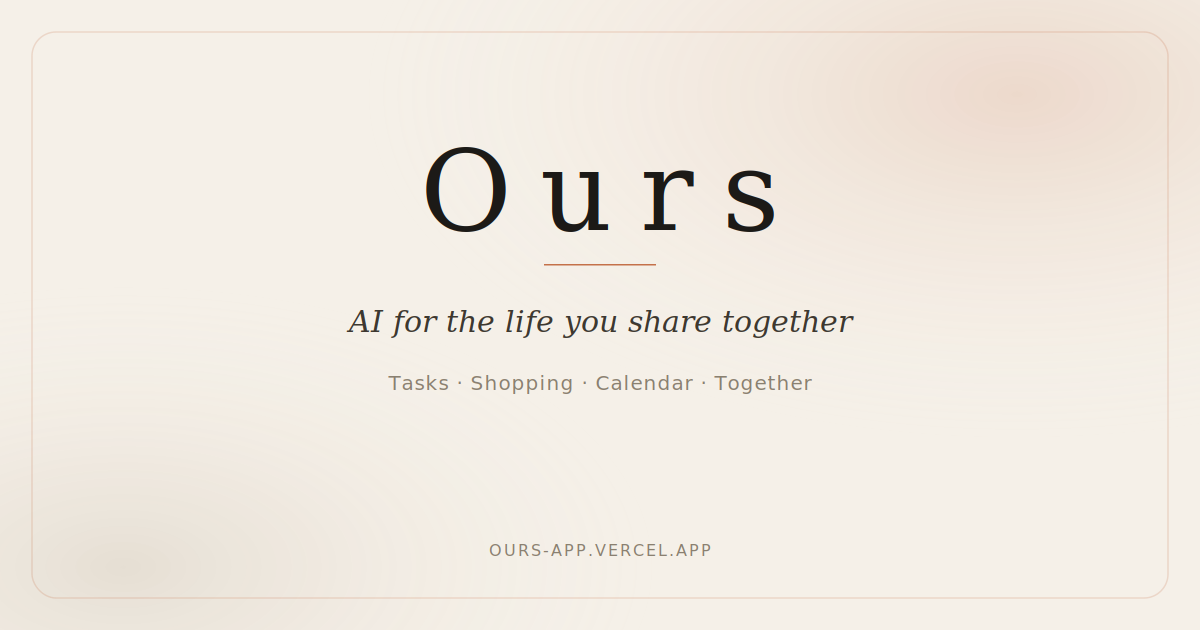
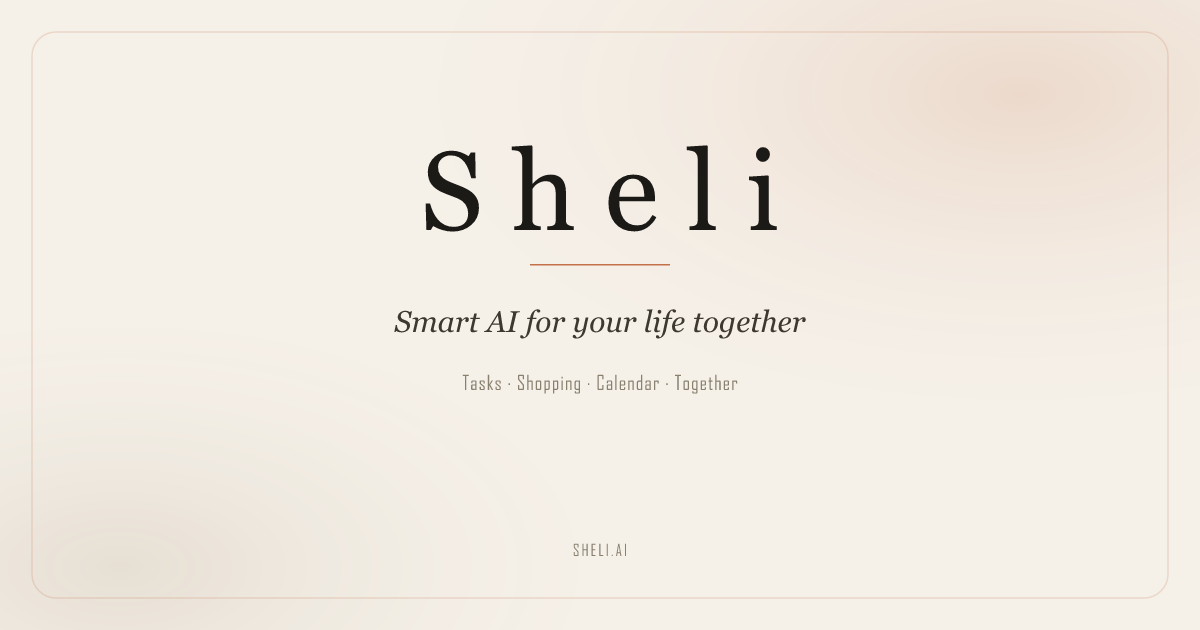
Rebrand: Ours → Sheli (שלי)
- App name, tagline, meta tags, OG/Twitter cards → Sheli branding
- PWA icons: new "S" + "SHELI" wordmark (192px + 512px)
- OG image: updated wordmark, tagline, URL (sheli.ai)
- All UI text: wordmarks, placeholders, empty states, chat labels
- AI system prompt: "You are Sheli (שלי)"
- Hebrew locale: natural Hebrew phrasing ("תגידו לשלי")
- Domain URLs: ours-app-eta.vercel.app → sheli.ai

diff --git a/src/components/WelcomeScreen.jsx b/src/components/WelcomeScreen.jsx
@@ -16,24 +16,24 @@ export default function WelcomeScreen({ onGetStarted, onSignIn }) {
   // Mock WhatsApp conversation — styled like actual WhatsApp
   const mockChat = isHe ? [
     { sender: "אמא", text: "מישהו יכול לאסוף את נועה מבלט ב-5?", side: "other", time: "09:12" },
-    { sender: "Ours 🏠", text: "📅 הוספתי: לאסוף את נועה מבלט ב-17:00\nמי לוקח?", side: "bot", time: "09:12" },
+    { sender: "Sheli 🏠", text: "📅 הוספתי: לאסוף את נועה מבלט ב-17:00\nמי לוקח?", side: "bot", time: "09:12" },
     { sender: "אבא", text: "אני. תזכירו לי לקנות חלב", side: "me", time: "09:14" },
-    { sender: "Ours 🏠", text: "✅ האיסוף → אבא\n🛒 חלב נוסף לרשימה\n⏰ תזכורת ב-16:45", side: "bot", time: "09:14" },
+    { sender: "Sheli 🏠", text: "✅ האיסוף → אבא\n🛒 חלב נוסף לרשימה\n⏰ תזכורת ב-16:45", side: "bot", time: "09:14" },
   ] : [
     { sender: "Mom", text: "Can someone pick up Noa from ballet at 5?", side: "other", time: "9:12 AM" },
-    { sender: "Ours 🏠", text: "📅 Added: Pick up Noa from ballet at 5pm\nWho's taking this?", side: "bot", time: "9:12 AM" },
+    { sender: "Sheli 🏠", text: "📅 Added: Pick up Noa from ballet at 5pm\nWho's taking this?", side: "bot", time: "9:12 AM" },
     { sender: "Dad", text: "Me. Remind me to buy milk on the way", side: "me", time: "9:14 AM" },
-    { sender: "Ours 🏠", text: "✅ Pickup → Dad\n🛒 Milk added to list\n⏰ Reminder at 4:45pm", side: "bot", time: "9:14 AM" },
+    { sender: "Sheli 🏠", text: "✅ Pickup → Dad\n🛒 Milk added to list\n⏰ Reminder at 4:45pm", side: "bot", time: "9:14 AM" },
   ];
 
   const features = isHe ? [
-    { icon: <ShoppingFeatureIcon size={28} />, title: "רשימת קניות חכמה", sub: "אמרו 'חלב' בקבוצה — Ours מוסיף לרשימה בשנייה" },
+    { icon: <ShoppingFeatureIcon size={28} />, title: "רשימת קניות חכמה", sub: "אמרו 'חלב' בקבוצה — Sheli מוסיף לרשימה בשנייה" },
     { icon: <CalendarFeatureIcon size={28} />, title: "יומן משפחתי", sub: "חוגים, הסעות, אירועים — מסודרים מעצמם" },
-    { icon: <ChoresFeatureIcon size={28} />, title: "חלוקת מטלות", sub: "Ours זוכר מי צריך לעשות מה ומתי" },
+    { icon: <ChoresFeatureIcon size={28} />, title: "חלוקת מטלות", sub: "Sheli זוכרת מי צריך לעשות מה ומתי" },
   ] : [
     { icon: <ShoppingFeatureIcon size={28} />, title: "Smart shopping list", sub: "Say 'milk' in the group — it's on the list instantly" },
     { icon: <CalendarFeatureIcon size={28} />, title: "Family calendar", sub: "Classes, pickups, events — organized by themselves" },
-    { icon: <ChoresFeatureIcon size={28} />, title: "Task sharing", sub: "Ours remembers who needs to do what, and when" },
+    { icon: <ChoresFeatureIcon size={28} />, title: "Task sharing", sub: "Sheli remembers who needs to do what, and when" },
   ];
 
   const selectLang = (l) => {
@@ -61,7 +61,7 @@ export default function WelcomeScreen({ onGetStarted, onSignIn }) {
           letterSpacing: "0.22em",
           color: "var(--dark)",
           marginBottom: 8,
-        }}>Ours</div>
+        }}>Sheli</div>
         <p style={{
           fontSize: 14,
           color: "var(--muted)",
@@ -143,7 +143,7 @@ export default function WelcomeScreen({ onGetStarted, onSignIn }) {
           letterSpacing: "0.22em",
           color: "var(--dark)",
           marginBottom: 4,
-        }}>Ours</div>
+        }}>Sheli</div>
 
         <p style={{
           fontSize: 14,
@@ -188,7 +188,7 @@ export default function WelcomeScreen({ onGetStarted, onSignIn }) {
                 {isHe ? "קבוצת המשפחה" : "Family Group"}
               </div>
               <div style={{ fontSize: 11, color: waTextMuted }}>
-                {isHe ? "אמא, אבא, Ours 🏠, את/ה" : "Mom, Dad, Ours 🏠, You"}
+                {isHe ? "אמא, אבא, Sheli 🏠, את/ה" : "Mom, Dad, Sheli 🏠, You"}
               </div>
             </div>
           </div>

diff --git a/src/App.jsx b/src/App.jsx
@@ -18,7 +18,7 @@ import { detectHousehold, joinByCode } from "./lib/household-detect.js";
 // ─────────────────────────────────────────────────────────────────────────────
 // MAIN APP
 // ─────────────────────────────────────────────────────────────────────────────
-export default function Ours() {
+export default function Sheli() {
   const [screen, setScreen]       = useState("loading");
   const [tab, setTab]             = useState("chat");
   const [household, setHousehold] = useState(null);
@@ -491,7 +491,7 @@ export default function Ours() {
   // ── Screens ──
   if (screen === "loading") return (
     <div style={{height:"100dvh",display:"flex",flexDirection:"column",alignItems:"center",justifyContent:"center",background:"var(--cream)",gap:8}}>
-      <div style={{fontFamily:"'Cormorant Garamond',serif",fontWeight:300,fontSize:28,letterSpacing:"0.22em",color:"var(--dark)",opacity:0.6}}>Ours</div>
+      <div style={{fontFamily:"'Cormorant Garamond',serif",fontWeight:300,fontSize:28,letterSpacing:"0.22em",color:"var(--dark)",opacity:0.6}}>Sheli</div>
       <div style={{fontSize:13,color:"var(--muted)",fontWeight:300}}>
         {T.en.loading}
       </div>
@@ -545,7 +545,7 @@ export default function Ours() {
     const pickFont = pickDir === "rtl" ? "'Heebo',sans-serif" : "'DM Sans',sans-serif";
     return (
       <div style={{minHeight:"100dvh",background:"var(--cream)",display:"flex",flexDirection:"column",alignItems:"center",justifyContent:"center",padding:"40px 24px",fontFamily:pickFont}} dir={pickDir}>
-        <div style={{fontFamily:"'Cormorant Garamond',serif",fontWeight:300,fontSize:36,letterSpacing:"0.22em",color:"var(--dark)",marginBottom:6}}>Ours</div>
+        <div style={{fontFamily:"'Cormorant Garamond',serif",fontWeight:300,fontSize:36,letterSpacing:"0.22em",color:"var(--dark)",marginBottom:6}}>Sheli</div>
         <p style={{fontSize:15,color:"var(--dark)",fontWeight:400,marginBottom:4,textAlign:"center"}}>
           {pickDir === "rtl"
             ? `ברוכים הבאים, ${household.name}`
@@ -695,7 +695,7 @@ export default function Ours() {
             </button>
           </div>
           <div className="header-mid">
-            <div className="wordmark">Ours</div>
+            <div className="wordmark">Sheli</div>
           </div>
           <div className="header-side right">
             <div style={{fontSize:13,fontWeight:500,color:"var(--warm)",paddingInlineEnd:4}}>{user.name}</div>
@@ -727,14 +727,14 @@ export default function Ours() {
                 ) : (
                   msgs.map((m, i) => (
                     <div key={i} className={`msg-wrap ${m.role}`}>
-                      <div className="msg-label">{m.role==="user" ? userName : t.oursLabel}</div>
+                      <div className="msg-label">{m.role==="user" ? userName : t.sheliLabel}</div>
                       <div className="bubble">{m.content}</div>
                     </div>
                   ))
                 )}
                 {busy && (
                   <div className="msg-wrap thinking-wrap">
-                    <div className="msg-label">{t.oursLabel}</div>
+                    <div className="msg-label">{t.sheliLabel}</div>
                     <div className="dots"><span/><span/><span/></div>
                   </div>
                 )}

diff --git a/src/locales/he.js b/src/locales/he.js
@@ -34,13 +34,13 @@ const he = {
   s2: "\u05EA\u05D5\u05E1\u05D9\u05E4\u05D5 \u05D7\u05DC\u05D1, \u05D1\u05D9\u05E6\u05D9\u05DD \u05D5\u05DC\u05D7\u05DD \u05DC\u05E8\u05E9\u05D9\u05DE\u05D4",
   s3: (n) => `\u05EA\u05D5\u05E1\u05D9\u05E4\u05D5 '\u05DC\u05E9\u05D0\u05D5\u05D1 \u05D0\u05D1\u05E7 \u05D1\u05E1\u05DC\u05D5\u05DF' \u05D1\u05E9\u05D1\u05D9\u05DC ${n}`,
   s4: "\u05DE\u05D4 \u05D9\u05E9 \u05D1\u05DC\u05D5\u05D6 \u05D4\u05E9\u05D1\u05D5\u05E2?",
-  inputPlaceholder: (n) => `\u05D4\u05D5\u05D3\u05E2\u05D4 \u05DC-Ours \u05D1\u05EA\u05D5\u05E8 ${n}\u2026`,
-  oursLabel: "Ours",
+  inputPlaceholder: (n) => `\u05EA\u05D2\u05D9\u05D3\u05D5 \u05DC\u05E9\u05DC\u05D9 \u05D1\u05EA\u05D5\u05E8 ${n}\u2026`,
+  sheliLabel: "שלי",
   tasksTitle: "\u05DE\u05D8\u05DC\u05D5\u05EA \u05D5\u05DE\u05E9\u05D9\u05DE\u05D5\u05EA",
   clearDone: "\u05E0\u05E7\u05D5 \u05E9\u05D1\u05D5\u05E6\u05E2\u05D5",
   sectionTodo: (n) => `\u05DC\u05D1\u05D9\u05E6\u05D5\u05E2 \u00B7 ${n}`,
   sectionDone: (n) => `\u05D1\u05D5\u05E6\u05E2 \u00B7 ${n}`,
-  tasksEmpty: "\u05D0\u05D9\u05DF \u05E2\u05D3\u05D9\u05D9\u05DF \u05DE\u05E9\u05D9\u05DE\u05D5\u05EA. \u05EA\u05D2\u05D9\u05D3\u05D5 \u05DC-Ours \u05DE\u05D4 \u05E6\u05E8\u05D9\u05DA \u05DC\u05E2\u05E9\u05D5\u05EA.",
+  tasksEmpty: "\u05D0\u05D9\u05DF \u05E2\u05D3\u05D9\u05D9\u05DF \u05DE\u05E9\u05D9\u05DE\u05D5\u05EA. \u05EA\u05D2\u05D9\u05D3\u05D5 \u05DC\u05E9\u05DC\u05D9 \u05DE\u05D4 \u05E6\u05E8\u05D9\u05DA \u05DC\u05E2\u05E9\u05D5\u05EA.",
   allDone: "\u05D4\u05DB\u05DC \u05D1\u05D5\u05E6\u05E2 \u05DC\u05E2\u05DB\u05E9\u05D9\u05D5 \u2713",
   takeIt: "\u05D0\u05E0\u05D9 \u05DC\u05D5\u05E7\u05D7/\u05EA",
   doneBy: (n) => `\u05D1\u05D5\u05E6\u05E2 \u05E2\u05DC \u05D9\u05D3\u05D9 ${n}`,
@@ -48,7 +48,7 @@ const he = {
   shopTitle: "\u05E8\u05E9\u05D9\u05DE\u05EA \u05E7\u05E0\u05D9\u05D5\u05EA",
   clearCart: "\u05E0\u05E7\u05D5 \u05E2\u05D2\u05DC\u05D4",
   inCart: (n) => `\u05D1\u05E2\u05D2\u05DC\u05D4 \u00B7 ${n}`,
-  shopEmpty: "\u05D4\u05E8\u05E9\u05D9\u05DE\u05D4 \u05E8\u05D9\u05E7\u05D4. \u05EA\u05D2\u05D9\u05D3\u05D5 \u05DC-Ours \u05DE\u05D4 \u05E6\u05E8\u05D9\u05DA.",
+  shopEmpty: "\u05D4\u05E8\u05E9\u05D9\u05DE\u05D4 \u05E8\u05D9\u05E7\u05D4. \u05EA\u05D2\u05D9\u05D3\u05D5 \u05DC\u05E9\u05DC\u05D9 \u05DE\u05D4 \u05E6\u05E8\u05D9\u05DA.",
   allInCart: "\u05D4\u05DB\u05DC \u05D1\u05E2\u05D2\u05DC\u05D4 \u2713",
   qtyLabel: (q) => `\u05DB\u05DE\u05D5\u05EA: ${q}`,
   cats: ["\u05E4\u05D9\u05E8\u05D5\u05EA \u05D5\u05D9\u05E8\u05E7\u05D5\u05EA","\u05D7\u05DC\u05D1 \u05D5\u05D1\u05D9\u05E6\u05D9\u05DD","\u05D1\u05E9\u05E8 \u05D5\u05D3\u05D2\u05D9\u05DD","\u05DE\u05D0\u05E4\u05D9\u05DD","\u05DE\u05D6\u05D5\u05D5\u05D4","\u05DE\u05D5\u05E6\u05E8\u05D9\u05DD \u05E7\u05E4\u05D5\u05D0\u05D9\u05DD","\u05DE\u05E9\u05E7\u05D0\u05D5\u05EA","\u05E0\u05D9\u05E7\u05D5\u05D9 \u05D5\u05D1\u05D9\u05EA","\u05DE\u05D5\u05E6\u05E8\u05D9\u05DD \u05DE\u05D7\u05E0\u05D5\u05EA \u05D4\u05D8\u05D1\u05E2","\u05D0\u05D7\u05E8"],

diff --git a/index.html b/index.html
@@ -7,29 +7,29 @@
     <meta name="theme-color" content="#1C1A17" />
     <meta name="apple-mobile-web-app-capable" content="yes" />
     <meta name="apple-mobile-web-app-status-bar-style" content="black-translucent" />
-    <meta name="apple-mobile-web-app-title" content="Ours" />
+    <meta name="apple-mobile-web-app-title" content="Sheli" />
     <link rel="apple-touch-icon" href="/icons/icon-192.png" />
     <link rel="manifest" href="/manifest.json" />
 
-    <title>Ours — AI for the life you share together</title>
+    <title>Sheli — Smart AI for your life together</title>
     <meta name="description" content="מטלות, קניות, חוגים, הסעות ואירועים משפחתיים — הכל במקום אחד." />
 
     <!-- Open Graph -->
     <meta property="og:type" content="website" />
-    <meta property="og:site_name" content="Ours" />
-    <meta property="og:title" content="Ours — AI for the life you share together" />
+    <meta property="og:site_name" content="Sheli" />
+    <meta property="og:title" content="Sheli — Smart AI for your life together" />
     <meta property="og:description" content="מטלות, קניות, חוגים, הסעות ואירועים משפחתיים — הכל במקום אחד." />
-    <meta property="og:image" content="https://ours-app-eta.vercel.app/og-image.png" />
+    <meta property="og:image" content="https://sheli.ai/og-image.png" />
     <meta property="og:image:width" content="1200" />
     <meta property="og:image:height" content="630" />
     <meta property="og:image:type" content="image/png" />
-    <meta property="og:url" content="https://ours-app-eta.vercel.app" />
+    <meta property="og:url" content="https://sheli.ai" />
 
     <!-- WhatsApp / Twitter -->
     <meta name="twitter:card" content="summary_large_image" />
-    <meta name="twitter:title" content="Ours — AI for the life you share together" />
+    <meta name="twitter:title" content="Sheli — Smart AI for your life together" />
     <meta name="twitter:description" content="מטלות, קניות, חוגים, הסעות ואירועים משפחתיים — הכל במקום אחד." />
-    <meta name="twitter:image" content="https://ours-app-eta.vercel.app/og-image.png" />
+    <meta name="twitter:image" content="https://sheli.ai/og-image.png" />
   </head>
   <body>
     <div id="root"></div>

diff --git a/src/locales/en.js b/src/locales/en.js
@@ -35,13 +35,13 @@ const en = {
   s2: "Add milk, eggs and bread to the list",
   s3: (n) => `Add 'vacuum living room' for ${n}`,
   s4: "What\u2019s on the calendar this week?",
-  inputPlaceholder: (n) => `Message Ours as ${n}\u2026`,
-  oursLabel: "Ours",
+  inputPlaceholder: (n) => `Message Sheli as ${n}\u2026`,
+  sheliLabel: "Sheli",
   tasksTitle: "Chores & Tasks",
   clearDone: "Clear done",
   sectionTodo: (n) => `To do \u00B7 ${n}`,
   sectionDone: (n) => `Done \u00B7 ${n}`,
-  tasksEmpty: "No tasks yet. Tell Ours what needs doing.",
+  tasksEmpty: "No tasks yet. Tell Sheli what needs doing.",
   allDone: "All done for now \u2713",
   takeIt: "I'll do it",
   doneBy: (n) => `Done by ${n}`,
@@ -49,7 +49,7 @@ const en = {
   shopTitle: "Shopping List",
   clearCart: "Clear cart",
   inCart: (n) => `In cart \u00B7 ${n}`,
-  shopEmpty: "List is empty. Tell Ours what you need.",
+  shopEmpty: "List is empty. Tell Sheli what you need.",
   allInCart: "Everything\u2019s in the cart \u2713",
   qtyLabel: (q) => `Qty: ${q}`,
   cats: ["Produce","Dairy","Meat","Bakery","Pantry","Frozen","Drinks","Household","Health Store","Other"],

diff --git a/src/components/AuthScreen.jsx b/src/components/AuthScreen.jsx
@@ -68,14 +68,14 @@ export default function AuthScreen({ onAuthSuccess, onBack, lang = "en" }) {
         letterSpacing: "0.22em",
         color: "var(--dark)",
         marginBottom: 4,
-      }}>Ours</div>
+      }}>Sheli</div>
       <p style={{
         fontSize: 13,
         color: "var(--muted)",
         fontWeight: 300,
         marginBottom: 36,
         letterSpacing: "0.03em",
-      }}>AI for the life you share together</p>
+      }}>Smart AI for your life together</p>
 
       {/* Auth form */}
       <form onSubmit={handleSubmit} style={{

diff --git a/src/components/JoinOrCreate.jsx b/src/components/JoinOrCreate.jsx
@@ -276,13 +276,13 @@ export default function JoinOrCreate({
   return (
     <div style={s.wrap} dir={dir}>
       {/* Wordmark */}
-      <div style={s.wordmark}>Ours</div>
+      <div style={s.wordmark}>Sheli</div>
 
       {/* Subtitle */}
       <p style={s.subtitle}>
         {isHe
-          ? "כבר יש לכם משפחה ב-Ours?"
-          : "Already have a family on Ours?"}
+          ? "כבר יש לכם משפחה ב-Sheli?"
+          : "Already have a family on Sheli?"}
       </p>
 
       <div style={s.content}>

diff --git a/src/components/Setup.jsx b/src/components/Setup.jsx
@@ -23,8 +23,8 @@ export default function Setup({ onDone }) {
 
   return (
     <div className="setup-wrap" dir={dir} style={{ fontFamily: lang === "he" ? "'Heebo',sans-serif" : "'DM Sans',sans-serif" }}>
-      <div className="setup-mark">Ours</div>
-      <p className="setup-tagline">AI for the life you share together</p>
+      <div className="setup-mark">Sheli</div>
+      <p className="setup-tagline">Smart AI for your life together</p>
 
       <div className="setup-form">
         {step === 0 && (

diff --git a/src/lib/prompt.js b/src/lib/prompt.js
@@ -24,7 +24,7 @@ Tone in Hebrew:
     return `${name} = ${iso}${i===0?" (today)":""}`;
   }).join(", ");
 
-  return `You are Ours — the shared AI for the ${household.name}.
+  return `You are Sheli (שלי) — the smart family AI for the ${household.name}.
 ${langNote}
 
 Members: ${household.members.map(m => m.name).join(", ")}.

diff --git a/CLAUDE.md b/CLAUDE.md
@@ -1,7 +1,7 @@
-# Ours App — AI Family Assistant
+# Sheli (שלי) — Smart AI for Your Life Together
 
 ## Architecture
-- **Frontend:** React 19 + Vite 8, deployed on Vercel (ours-app-eta.vercel.app)
+- **Frontend:** React 19 + Vite 8, deployed on Vercel (sheli.ai)
 - **Backend:** Supabase (project: wzwwtghtnkapdwlgnrxr, region: eu-central-2)
 - **AI:** Claude Sonnet 4 via Anthropic API, proxied through /api/chat (Vercel serverless)
 - **WhatsApp Bot:** Supabase Edge Function (whatsapp-webhook), Whapi.Cloud provider
